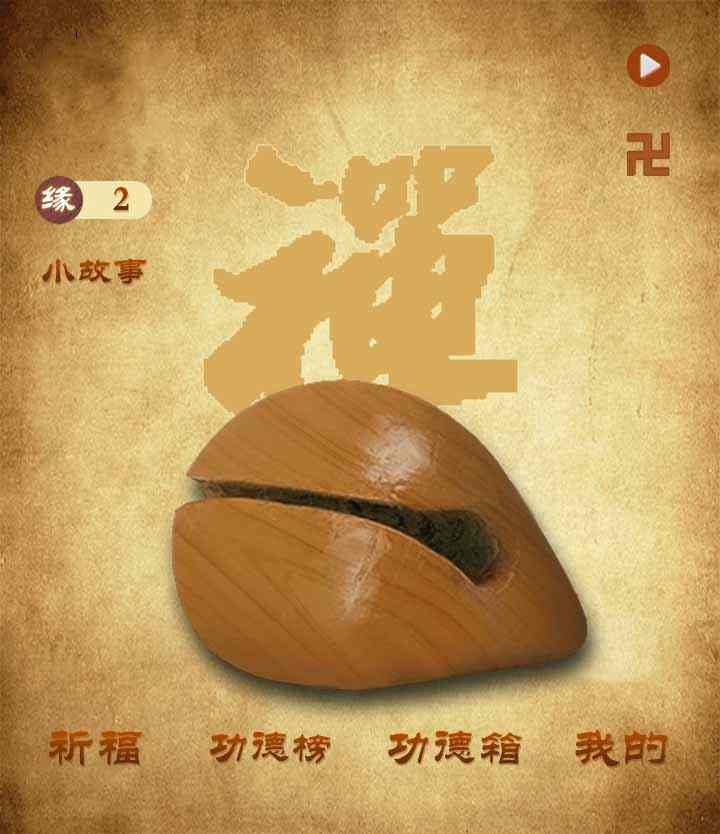
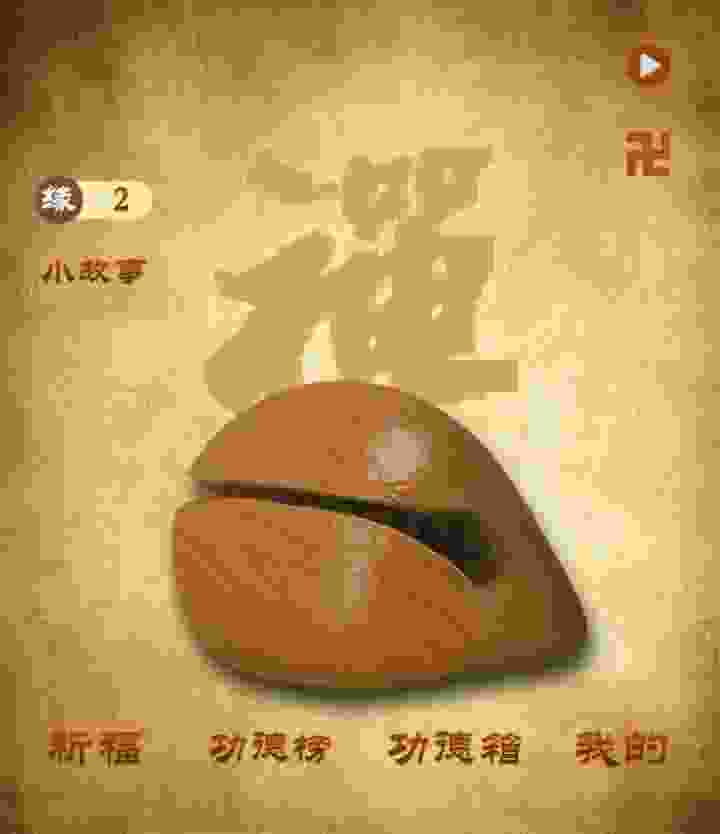
‘完善UI，添加小故事’

diff --git a/client/pages/index/index.js b/client/pages/index/index.js
@@ -28,6 +28,7 @@ Page({
     isFoActive: false,
     musicSelect: 0,
     storyClass:'story-content-none',
+    canvasClass:'canvas-box',
     textArr: [
       {
         textName: '无',
@@ -102,16 +103,24 @@ Page({
   //小故事按钮
 
   storyTap(){
+    this.audioCtx3.play();
     this.setData({
-      storyClass:'animated zoomIn story-content'
+      storyClass:'animated zoomIn story-content',
+      canvasClass:'canvas-none'
     })
     console.log('小故事')
   },
 
   backTap(){
+    this.audioCtx3.stop();
     this.setData({
       storyClass: 'animated bounceOut story-content'
     })
+    setTimeout(function(){
+      this.setData({
+        canvasClass: 'canvas-box'
+      })
+    }.bind(this),1000);
   },
 
 
@@ -170,7 +179,12 @@ Page({
     // 使用 wx.createInnerAudioContext 获取 audio 上下文 context
     this.audioCtx1 = wx.createInnerAudioContext();
     this.audioCtx1.src = 'musics/muyu1.mp3';
-
+    this.audioCtx3 = wx.createInnerAudioContext();
+    this.audioCtx3.src = 'musics/bgmusic.mp3';
+    this.audioCtx3.volume = 0.6;
+    this.audioCtx3.loop = true;
+    this.audioCtx3.obeyMuteSwitch = false;
+    
     //获取canvas上下文
     var context = wx.createCanvasContext('firstCanvas')
     var ctx = new Ctx(context);
@@ -201,7 +215,8 @@ Page({
         wx.setStorageSync('openId', res.data.userStatus.open_id);
 
         that.setData({
-          bonus: res.data.userStatus.bonus
+          bonus: res.data.userStatus.bonus,
+          oneStory: res.data.oneStory
         })
       },
       fail(error) {
@@ -216,6 +231,7 @@ Page({
   onUnload: function () {
     console.log('主页unload')
     clearInterval(autoInterval);
+    this.audioCtx3.stop();
     this.data.textDis.stop();
     this.setData({
       isAutoQiao: false

diff --git a/server/controllers/getUserStatus.js b/server/controllers/getUserStatus.js
@@ -1,5 +1,5 @@
 
-const { getUserStatus, initUserCollections, checkUserCollections } = require('../dbs/index.js')
+const { getUserStatus, initUserCollections, checkUserCollections, getAllStory } = require('../dbs/index.js')
 
 
 // 登录授权接口
@@ -14,19 +14,28 @@ module.exports = async (ctx, next) => {
     let openId = ctx.state.$wxInfo.userinfo.openId;
     let res = await getUserStatus(openId);
     let checkUserC = await checkUserCollections(openId);
+    let storyRes = await getAllStory();
+    let oneStory=randomStory(storyRes);
+    console.log('story', storyRes);
     if (!checkUserC.length) {
       let collections = {
         "open_id": openId,
         "count": 0,
         collection: []
       }
-      let jsonStr=JSON.stringify(collections);
-      let collectionRes=await initUserCollections(openId,jsonStr);
+      let jsonStr = JSON.stringify(collections);
+      let collectionRes = await initUserCollections(openId, jsonStr);
     }
     ctx.body = {
-      userStatus: res[0]
+      userStatus: res[0],
+      oneStory
     }
   } else {
     ctx.state.code = -1
   }
+}
+
+
+function randomStory(storyRes){
+  return storyRes[Math.floor(Math.random() * 3)];
 }

diff --git a/server/config.js b/server/config.js
@@ -19,15 +19,26 @@ const CONF = {
      * 测试:'bw9Y0eaLAm67wxfJ',
      * Root123456
      */
+    // mysql: {
+    //     host: '172.16.164.155',
+    //     //host: 'localhost',
+    //     port: 3306,
+    //     user: 'root',
+    //     db: 'cAuth',
+    //      pass: 'LP3CjxeLM3Wz9avE',
+    //     //pass:'bw9Y0eaLAm67wxfJ',
+    //     char: 'utf8mb4'
+    // },
     mysql: {
-        host: '172.16.164.155',
-        //host: 'localhost',
-        port: 3306,
-        user: 'root',
-        db: 'cAuth',
-         pass: 'LP3CjxeLM3Wz9avE',
-        //pass:'bw9Y0eaLAm67wxfJ',
-        char: 'utf8mb4'
+      //host: '172.16.164.155',
+      host: 'localhost',
+      port: 3306,
+      user: 'root',
+      db: 'cAuth',
+      //pass: 'LP3CjxeLM3Wz9avE',
+      //pass:'bw9Y0eaLAm67wxfJ',
+      pass:'wx35801fc4c64962f4',
+      char: 'utf8mb4'
     },
 
     cos: {

diff --git a/client/pages/bless/bless.js b/client/pages/bless/bless.js
@@ -22,9 +22,9 @@ Page({
     wx.showShareMenu({
       withShareTicket: true
     })
-    this.audioCtx1 = wx.createInnerAudioContext();
-    this.audioCtx1.src = 'musics/blink.mp3';
-    this.audioCtx1.volume=0.3;
+    // this.audioCtx1 = wx.createInnerAudioContext();
+    // this.audioCtx1.src = 'musics/blink.mp3';
+    // this.audioCtx1.volume=0.3;
     this.audioCtx2 = wx.createInnerAudioContext();
     this.audioCtx2.src = 'musics/coin.mp3';
     this.audioCtx2.volume = 0.3;
@@ -159,7 +159,7 @@ Page({
       isReward: false
     })
     
-    this.audioCtx1.play()
+    //this.audioCtx1.play()
     setTimeout(function () {
       this.setData({
         isDrop: true

diff --git a/server/dbs/index.js b/server/dbs/index.js
@@ -132,6 +132,16 @@ async function setZeroUserShare(openId) {
   })
 }
 
+async function getAllStory(){
+  return new Promise(function (resovle, reject) {
+    mysql('cAuth').table('story').select('title','part1','part2').then(res => {
+      resovle(res);
+    }, err => {
+      reject(err)
+    })
+  })
+}
+
 
 module.exports = {
   getUserStatus,
@@ -145,5 +155,6 @@ module.exports = {
   initUserCollections,
   checkUserCollections,
   checkUserShare,
-  setZeroUserShare
+  setZeroUserShare,
+  getAllStory
 }

diff --git a/client/config.js b/client/config.js
@@ -6,9 +6,9 @@
 // var host = '59431301.qcloud.la';
 //dckeayxo.qcloud.la
 //测试环境
-// var host = 'dckeayxo.qcloud.la';
+ var host = 'dckeayxo.qcloud.la';
 //生产环境
- var host = '556351447.lxxiyou.cn';
+ //var host = '556351447.lxxiyou.cn';
 
 var config = {
 
